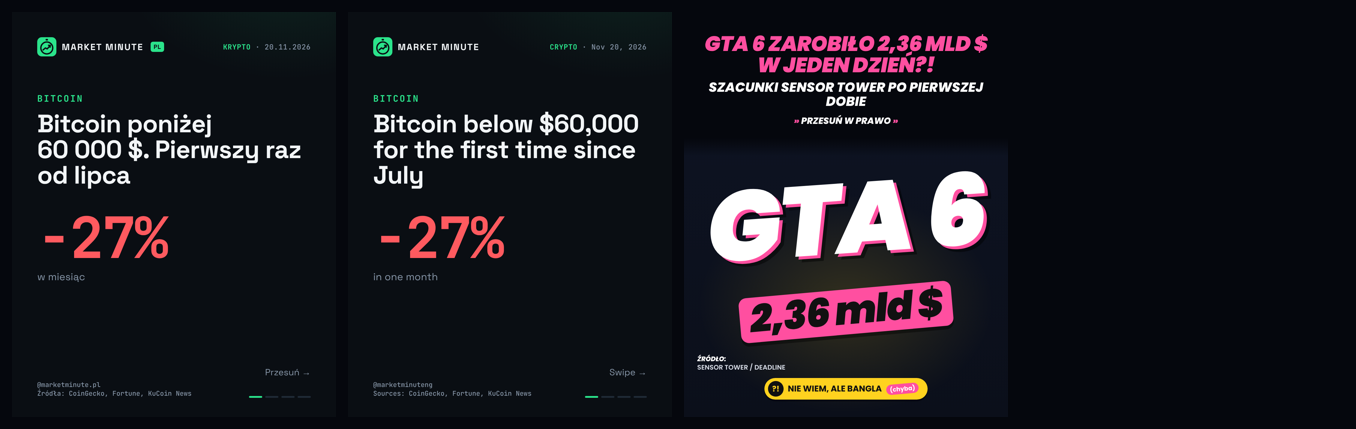
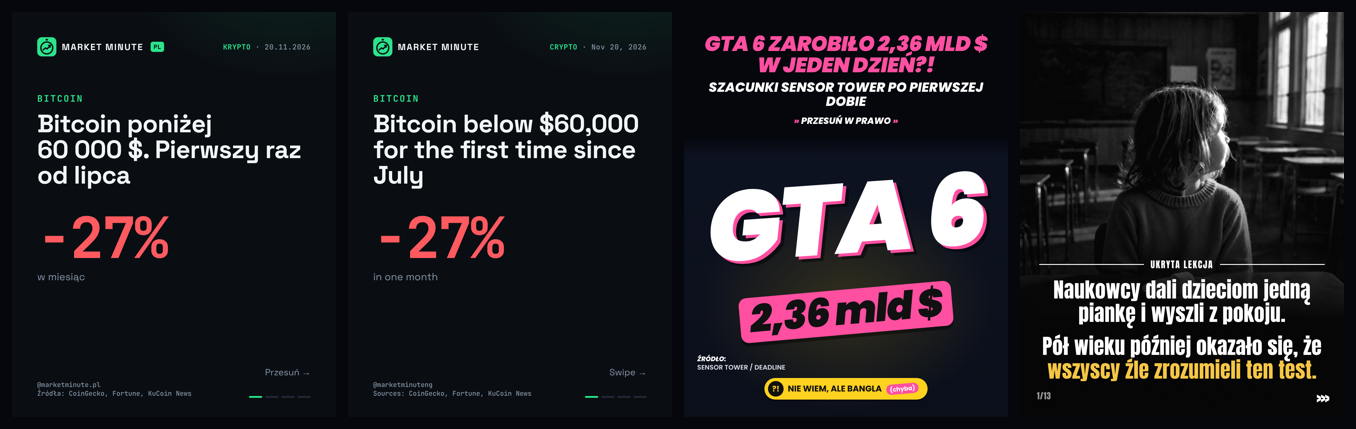
Ukryta Lekcja: typ ukryta_carousel w build.py, zbliżenia w szablonie, pierwsza karuzela (pianka)
Claude-Session: https://claude.ai/code/session_01WbHYgKrDWWZnFyabxfaTMh

diff --git a/tools/build.py b/tools/build.py
@@ -14,9 +14,10 @@ from PIL import Image
 from playwright.sync_api import sync_playwright
 
 import templates as T
+import story as S
 
 REPO_RAW = "https://raw.githubusercontent.com/krzysiuhexa-creator/faceless-konta/main/"
-BLOG = {("mm", "pl"): 8253009, ("mm", "en"): 8253033, ("bangla", "pl"): 8252917}
+BLOG = {("mm", "pl"): 8253009, ("mm", "en"): 8253033, ("bangla", "pl"): 8252917, ("ukryta", "pl"): 8254291}
 TZ = "Europe/Warsaw"
 
 # JS: najniższy punkt treści (bez stopki, znaczka, źródła itp.) – do wykrywania przepełnienia
@@ -32,14 +33,20 @@ CHECK_JS = """() => {
   return {bottom: maxB, right: maxR};
 }"""
 LIMIT = {"mm": 1170, "mm_bars": 1235, "mm_stat": 1000, "mm_why": 1000, "bangla": 1130}
+# Ukryta Lekcja: tekst rośnie od dołu w górę, więc pilnujemy GÓRY bloku tekstu (żeby nie zasłonił zdjęcia)
+UL_TOP = {"img": 560, "mid": 120}
+UL_JS = "() => { const r = document.querySelector('.box .div').getBoundingClientRect(); const t = document.querySelector('.t').getBoundingClientRect(); return {top: r.top, right: Math.max(r.right, t.right)}; }"
 
 
-def info(text, media, date, time, kind="POST"):
+def info(text, media, date, time, kind="POST", ai=False):
+    ig = {"type": kind}
+    if ai:
+        ig["isAiGenerated"] = True
     return json.dumps({
         "autoPublish": True, "draft": True, "descendants": [], "firstCommentText": "", "hasNotReadNotes": False,
         "media": media, "mediaAltText": [], "providers": [{"network": "instagram"}],
         "publicationDate": {"dateTime": f"{date}T{time}:00", "timezone": TZ},
-        "shortener": False, "smartLinkData": {"ids": []}, "text": text, "instagramData": {"type": kind},
+        "shortener": False, "smartLinkData": {"ids": []}, "text": text, "instagramData": ig,
     }, ensure_ascii=False)
 
 
@@ -92,6 +99,22 @@ def main(spec_path):
             photos.append({"slug": slug, "overlay": f"bangla/zdjecie-{slug}-nakladka.png",
                            "preview": f"bangla/zdjecie-{slug}-podglad.png", "caption": p["caption"],
                            "photo_hint": p.get("photo_hint", "")})
+        elif t == "ukryta_carousel":
+            n = len(p["slides"])
+            files = []
+            for i, sl in enumerate(p["slides"], 1):
+                sl = dict(sl)
+                if sl.get("img"):
+                    ip = (out / sl["img"]).resolve()
+                    if not ip.exists():
+                        raise SystemExit(f"Brak zdjęcia: {ip}")
+                    sl["img"] = str(ip)
+                rel = f"ukryta/{slug}-{i}.png"
+                lk = "ul_img" if (sl.get("img") and not sl.get("noimg")) else "ul_mid"
+                jobs.append((rel, S.aspect_slide(p, sl, i, n), T.W, T.H, False, lk))
+                files.append(rel)
+            posts.append({"account": "ukryta", "blogId": BLOG[("ukryta", "pl")], "time": p["time"], "slug": slug,
+                          "files": files, "caption": p["caption"], "ai": True})
         else:
             raise SystemExit(f"Nieznany typ posta: {t}")
 
@@ -107,7 +130,12 @@ def main(spec_path):
             pg.evaluate("document.fonts.ready")
             dst = out / rel
             dst.parent.mkdir(parents=True, exist_ok=True)
-            if lk:
+            if lk and lk.startswith("ul_"):
+                m = pg.evaluate(UL_JS)
+                lim = UL_TOP["img" if lk == "ul_img" else "mid"]
+                if m["top"] < lim or m["right"] > w - 40:
+                    warnings.append(f"{rel}: za dużo tekstu (góra bloku {m['top']:.0f}px, minimum {lim}px) – skróć")
+            elif lk:
                 m = pg.evaluate(CHECK_JS)
                 if m["bottom"] > LIMIT[lk] or m["right"] > w - 40:
                     warnings.append(f"{rel}: tekst za nisko/szeroko (dół {m['bottom']:.0f}px, limit {LIMIT[lk]}; prawo {m['right']:.0f}px)")
@@ -120,7 +148,7 @@ def main(spec_path):
     for po in posts:
         media = [REPO_RAW + f"posts/{day}/{x}" for x in po["files"]]
         mc.append({"account": po["account"], "slug": po["slug"], "blogId": str(po["blogId"]),
-                   "date": datetime.fromisoformat(f"{day}T{po['time']}:00").replace(tzinfo=ZoneInfo(TZ)).isoformat(), "info": info(po["caption"], media, day, po["time"])})
+                   "date": datetime.fromisoformat(f"{day}T{po['time']}:00").replace(tzinfo=ZoneInfo(TZ)).isoformat(), "info": info(po["caption"], media, day, po["time"], ai=po.get("ai", False))})
     (out / "metricool.json").write_text(json.dumps(mc, ensure_ascii=False, indent=1), encoding="utf-8")
     (out / "zdjecia.json").write_text(json.dumps(photos, ensure_ascii=False, indent=1), encoding="utf-8")
 

diff --git a/tools/story.py b/tools/story.py
@@ -77,14 +77,14 @@ def story_slide(p, sl, i, n):
 # ───────── STYL ŁĄCZONY (Mental Aspect × Doktor Niedźwiedź) ─────────
 # Każdy slajd: czarno-białe zdjęcie na całą wysokość, zejście w czerń, kreska z nazwą konta,
 # 1–3 zdania wąskim grubym krojem (Anton), »» w prawym dolnym rogu, licznik w lewym.
-# sl: img, pos, text (str lub lista), opcjonalnie fs, dark (0–1: przyciemnienie całego zdjęcia),
+# sl: img, pos, text (str lub lista), opcjonalnie fs, dark (0–1: przyciemnienie całego zdjęcia), zoom (np. 1.6 = zbliżenie; pos = punkt zbliżenia),
 #     big/label/big2/label2 (slajd z liczbami), noimg (czarne tło).
 AS_FONTS = links(["anton/400.css", "crimson-pro/600-italic.css"])
 AS_CSS = """
 :root{--acc:#F5C542}
 body{background:#000;color:#fff;font-family:'Anton',sans-serif}
 .s{position:relative;width:1080px;height:1350px;overflow:hidden;background:#000}
-.img{position:absolute;inset:0;background-size:cover;background-position:var(--pos,center);
+.img{position:absolute;inset:0;background-size:var(--bs,cover);background-position:var(--pos,center);
   filter:grayscale(1) contrast(1.12) brightness(var(--br,1))}
 .fade{position:absolute;inset:0;background:linear-gradient(180deg,rgba(0,0,0,0) 38%,rgba(0,0,0,.72) 60%,#000 76%)}
 .grain{position:absolute;inset:0;opacity:.06;mix-blend-mode:screen;
@@ -112,7 +112,8 @@ def aspect_slide(p, sl, i, n):
     acc = p.get("accent", "#F5C542")
     img = ""
     if sl.get("img") and not sl.get("noimg"):
-        img = (f'<div class="img" style="--pos:{sl.get("pos","center")};--br:{1-sl.get("dark",0)};'
+        bs = f'{int(sl["zoom"]*125)}% auto' if sl.get("zoom") else "cover"
+        img = (f'<div class="img" style="--pos:{sl.get("pos","center")};--br:{1-sl.get("dark",0)};--bs:{bs};'
                f'background-image:url(\'file://{sl["img"]}\')"></div><div class="fade"></div>')
     nums = ""
     if sl.get("big"):
